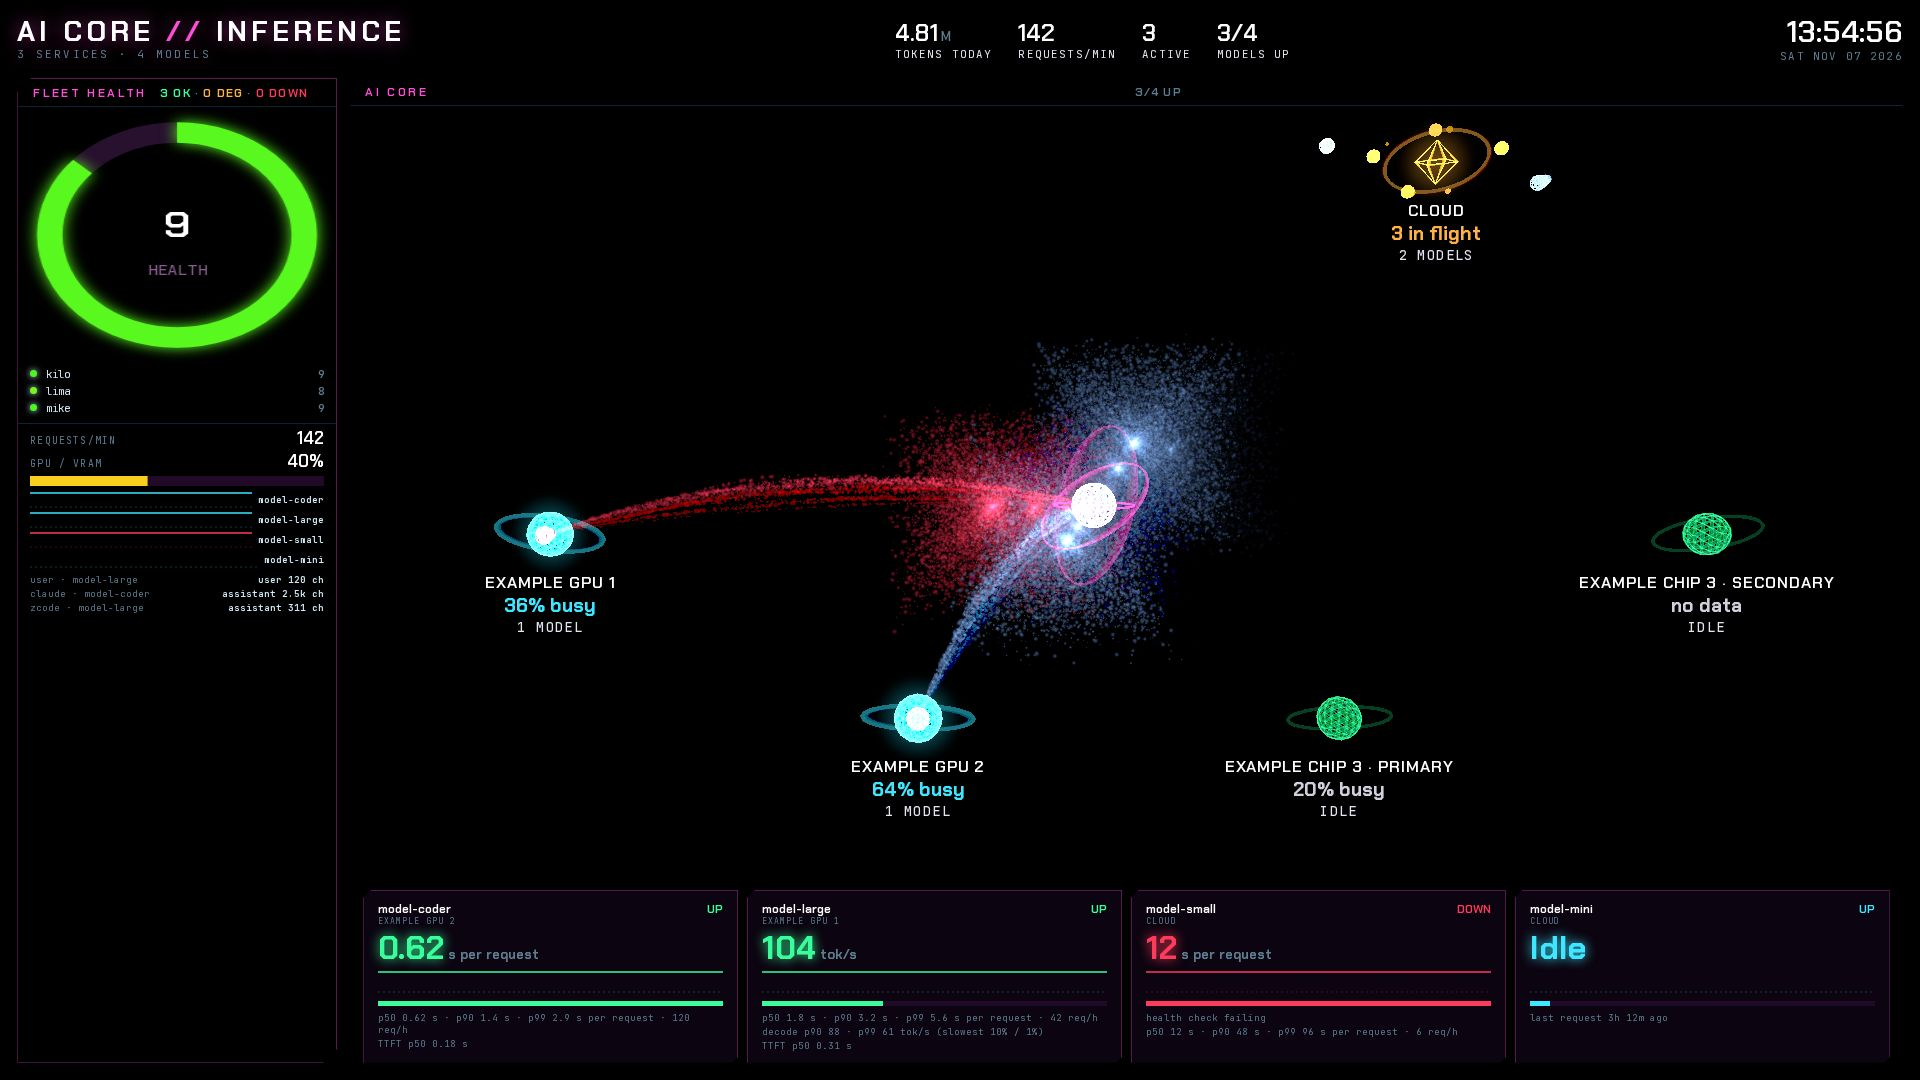
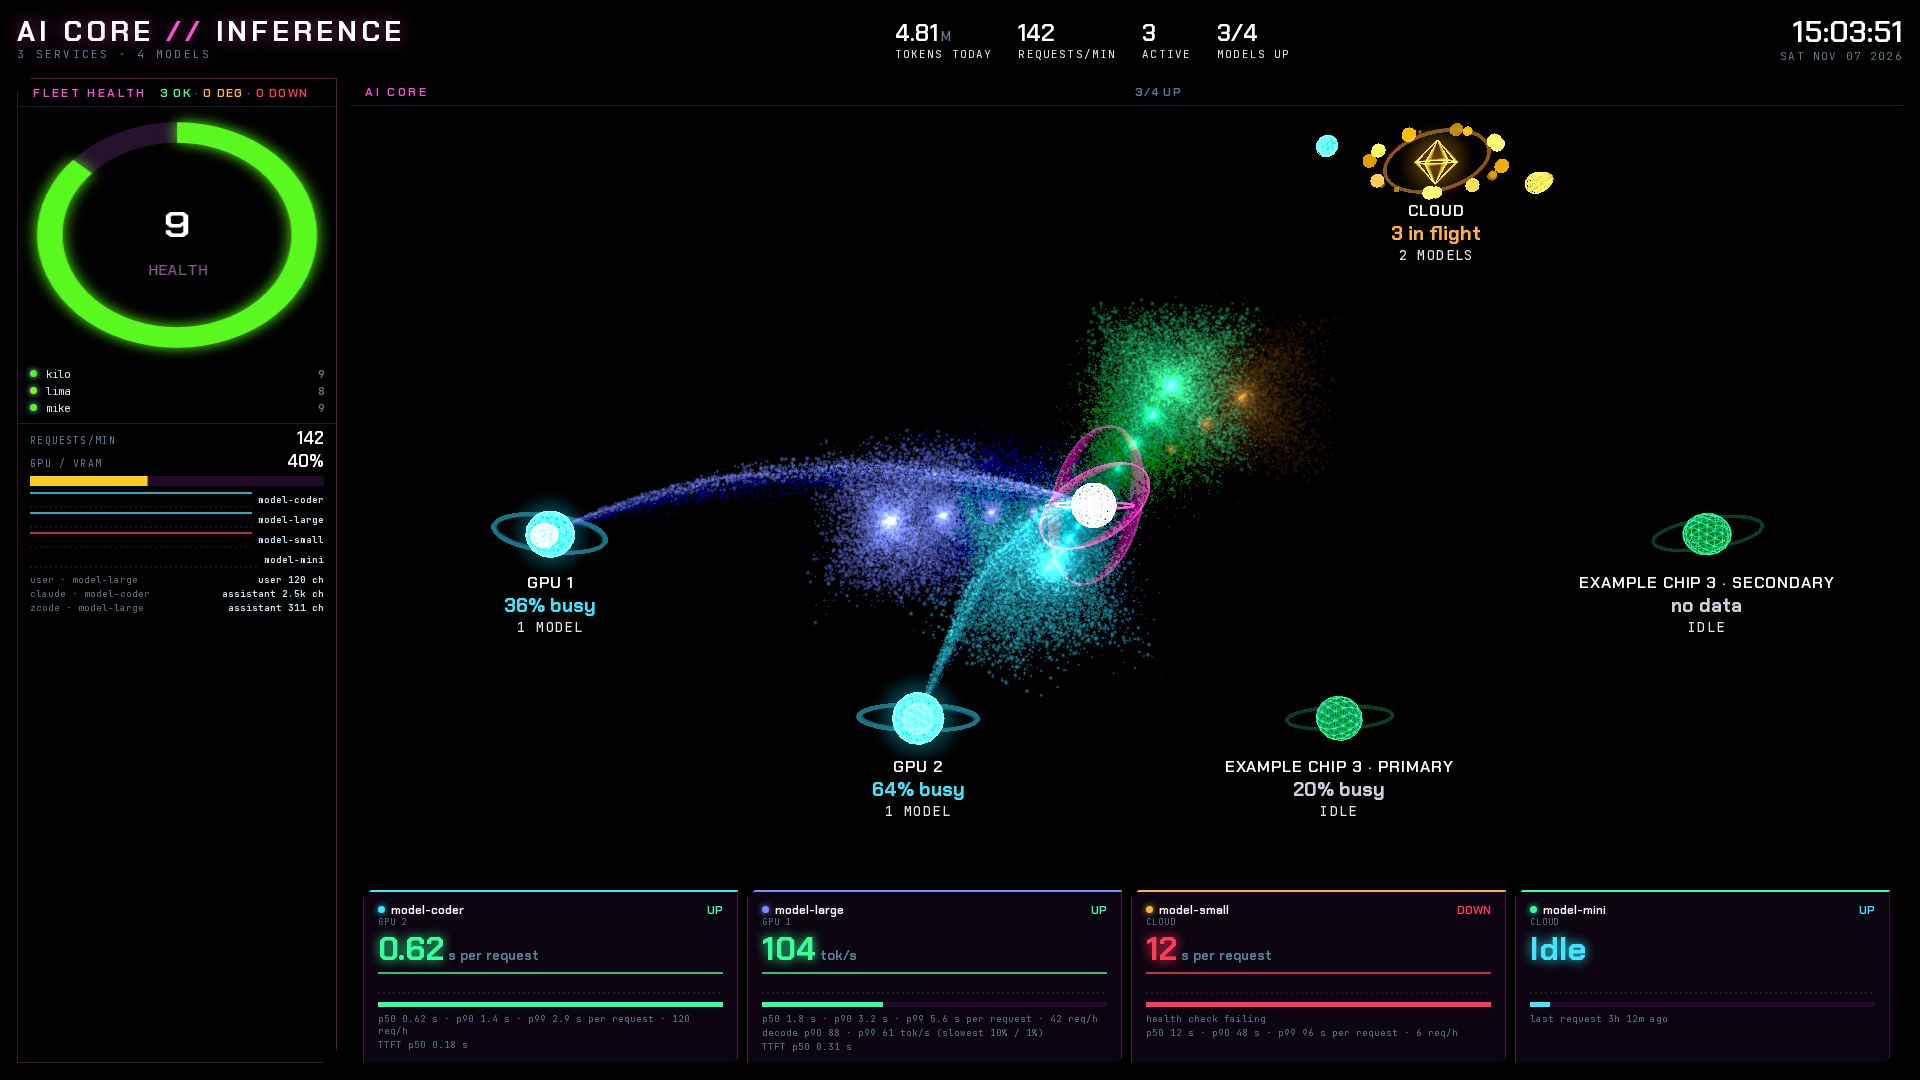
docs: describe MC3 model colours and MC7 real-request router cards (#162)
Assisted-by: Claude:claude-opus-5-5
Claude-Session: https://claude.ai/code/session_013nwrmdMWAiFsKMqsdvxH84

diff --git a/docs/mc7.md b/docs/mc7.md
@@ -1,7 +1,7 @@
 # MC7 · AI Benchmark Cockpit
 
 MC7 is the AI Benchmark Cockpit, a beta page. Engine cards show what each inference engine measures, and router
-cards show per-model latency as the router records it. The rotator names this slide `AI Benchmark Cockpit`.
+cards show per-model latency from real requests as the router records it. The rotator names this slide `AI Benchmark Cockpit`.
 
 ![MC7 AI Benchmark Cockpit](screenshots/mc7.jpg)
 
@@ -21,7 +21,10 @@ cards show per-model latency as the router records it. The rotator names this sl
   - Tokens/joule divides the recorded hourly generation rate by hourly mean power.
   - These are device totals, shown only when an engine exposes an accelerator association, not per-model power
     allocations.
-- Router latency: one card per router model.
+- Router latency: one card per model with a real request in the last 4 days (`llmUsed4d`).
+  - Router readings exclude the router's own health-check caller.
+  - A listed model with no readings keeps its card, which reads `NO DATA`.
+  - When `llmUsed4d` fails, the section lists every model it has readings for.
   - Router cards use LiteLLM `_bucket` histograms for TTFT p50/p95 and E2E p95, aggregated per model.
   - Each router card also shows output and input tok/s over 5 minutes.
   - An engine that reports only through the router has a router card and no engine card, so its engine-level cache
@@ -48,7 +51,8 @@ Engine histograms also use standard `_bucket` names. Percentiles come from bucke
 - `enginePrefixPercent`: prefix cache hits as a percent of prefix cache queries.
 - `engineSpecPercent`: accepted speculative tokens as a percent of draft tokens.
 - `routerInput`: router input tok/s per model over 5 minutes.
-- `llmTokRate`: router output tok/s per model over 5 minutes.
+- `routerOutput`: router output tok/s per model over 5 minutes.
+- `llmUsed4d`: models with a real request in the last 4 days.
 - `routerTtftP50`: router TTFT p50 per model.
 - `routerTtftP95`: router TTFT p95 per model.
 - `routerE2eP95`: router E2E p95 per model.
@@ -70,11 +74,11 @@ histogram share its source-age key.
 - `enginePrefixSourceAge`: for `enginePrefixPercent`, the older of its two inputs.
 - `engineSpecSourceAge`: for `engineSpecPercent`, the older of its two inputs.
 - `routerInputSourceAge`: for `routerInput`.
+- `routerOutputSourceAge`: for `routerOutput`.
 - `routerTtftSourceAge`: for the two router TTFT percentiles.
 - `routerE2eSourceAge`: for `routerE2eP95`.
 - `acceleratorWattsSourceAge`: for `acceleratorWatts`.
 - `acceleratorTokensPerJouleSourceAge`: for `acceleratorTokensPerJoule`, the older of tokens and power.
-- `llmTokRateSourceAge`: for `llmTokRate`.
 
 The page polls every `config.json` `refreshSeconds`, 15 seconds by default and at least 1 second. Each request
 times out after 10 seconds.

diff --git a/docs/mc3.md b/docs/mc3.md
@@ -24,8 +24,13 @@ the bottom.
     no device attaches to the cloud node.
   - Each device label shows its name, busy percent, attached models and active requests.
   - A device name comes from its exporter's product label, or from `config.json` `accelerators` when that sets one.
+  - A product label shortens to its identifier: leading brand words go, the name ends at the first word with a digit,
+    and one short suffix word stays. `VENDOR Brand ABC 1234 SUPER` reads `ABC 1234 SUPER`.
   - Two devices that would read the same also get their role tag.
   - The cloud label shows router-wide requests in flight minus those drawn on devices, and its model count.
+  - Each listed model has one colour, assigned in name order, so it keeps that colour when its request rank changes.
+    Its 3D core and stream, its 2D dot and sparks, and its card all use that colour.
+  - A down model's 2D dot is dimmed with a red ring.
   - Each request in flight draws one bead, up to 12. Past that, beads pack into rings, up to 36, and a badge carries
     the true count.
   - A node dims when nothing is attached and nothing is in flight. A device with no busy series is always dim.
@@ -36,7 +41,8 @@ the bottom.
   - The cards list only models with real requests in the last 4 days. The router's own health-check caller does not
     count.
   - Cards are sorted by requests in the last hour, then by name.
-  - Each card shows the model name, `UP` or `DOWN`, its device, a large number, a sparkline and per-request numbers.
+  - Each card shows a colour swatch and a top border in the model's colour, the model name, `UP` or `DOWN`, its device,
+    a large number, a sparkline and per-request numbers.
   - The large number is the engine's decode speed p50 (50th percentile) in tok/s where the engine reports it.
     Otherwise it is the router's request time p50 in seconds.
   - Below it: request time p50, p90 and p99 (50th, 90th and 99th percentiles), and requests per hour.
